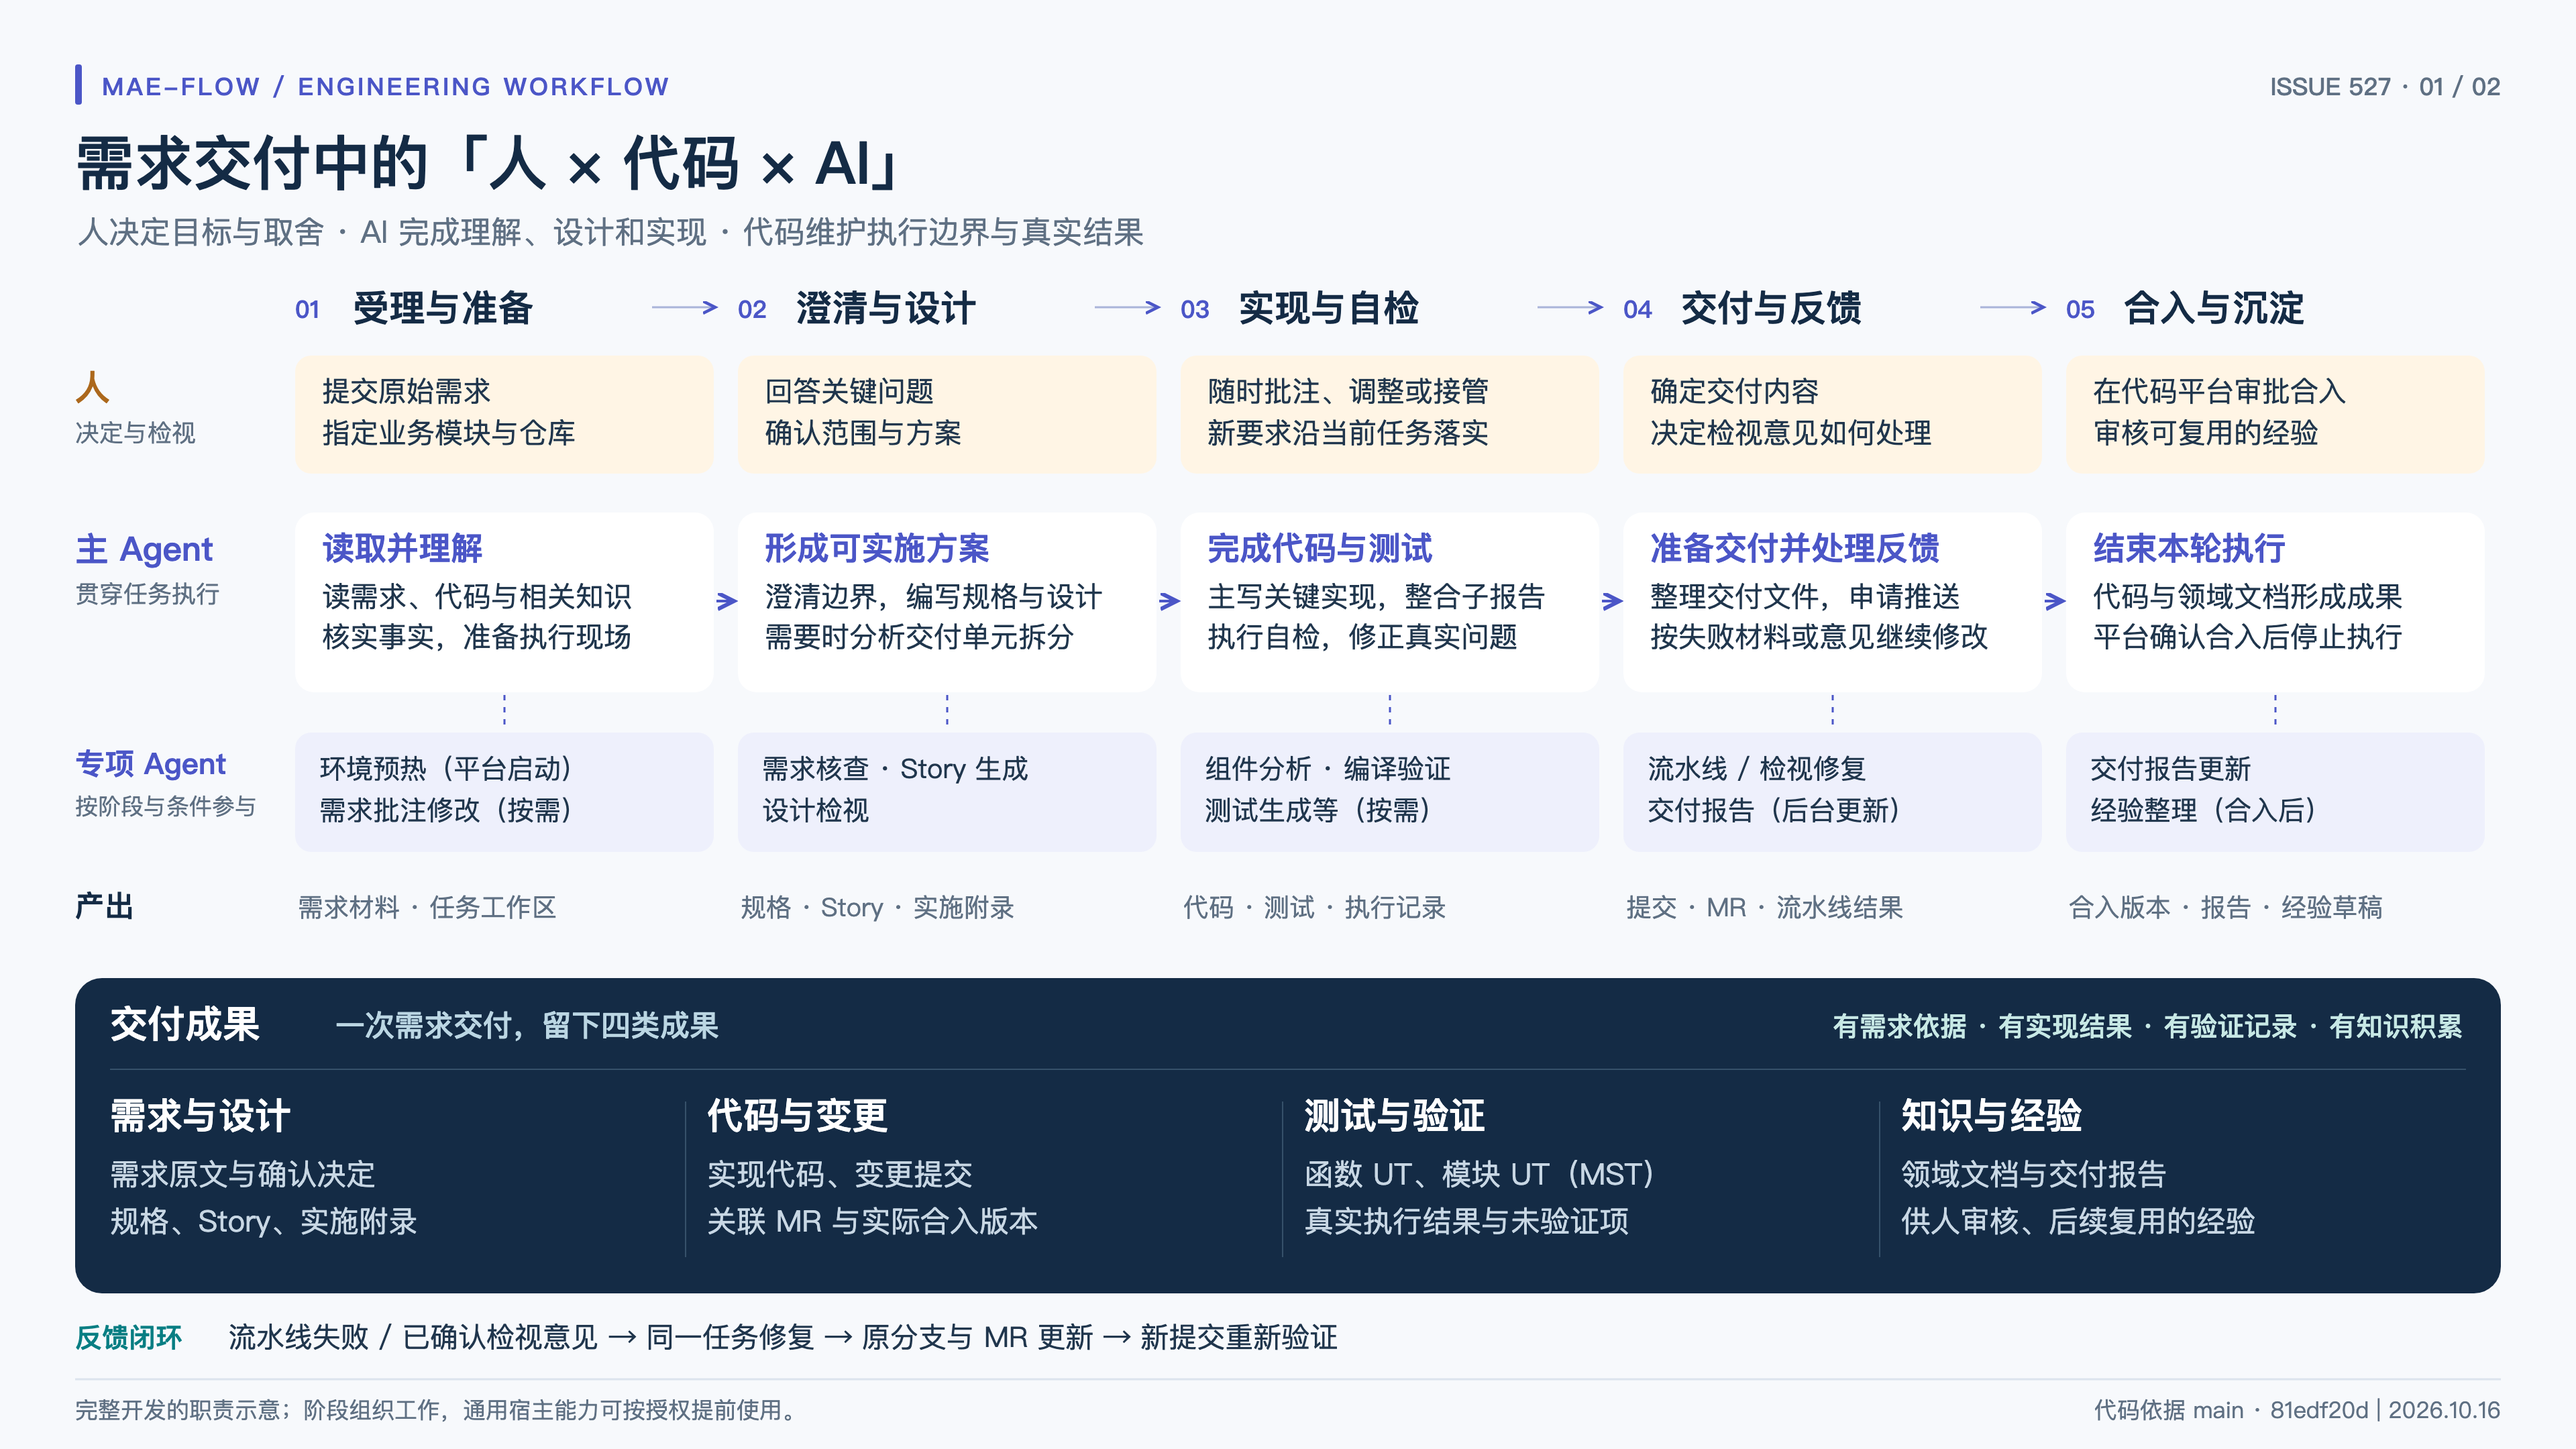
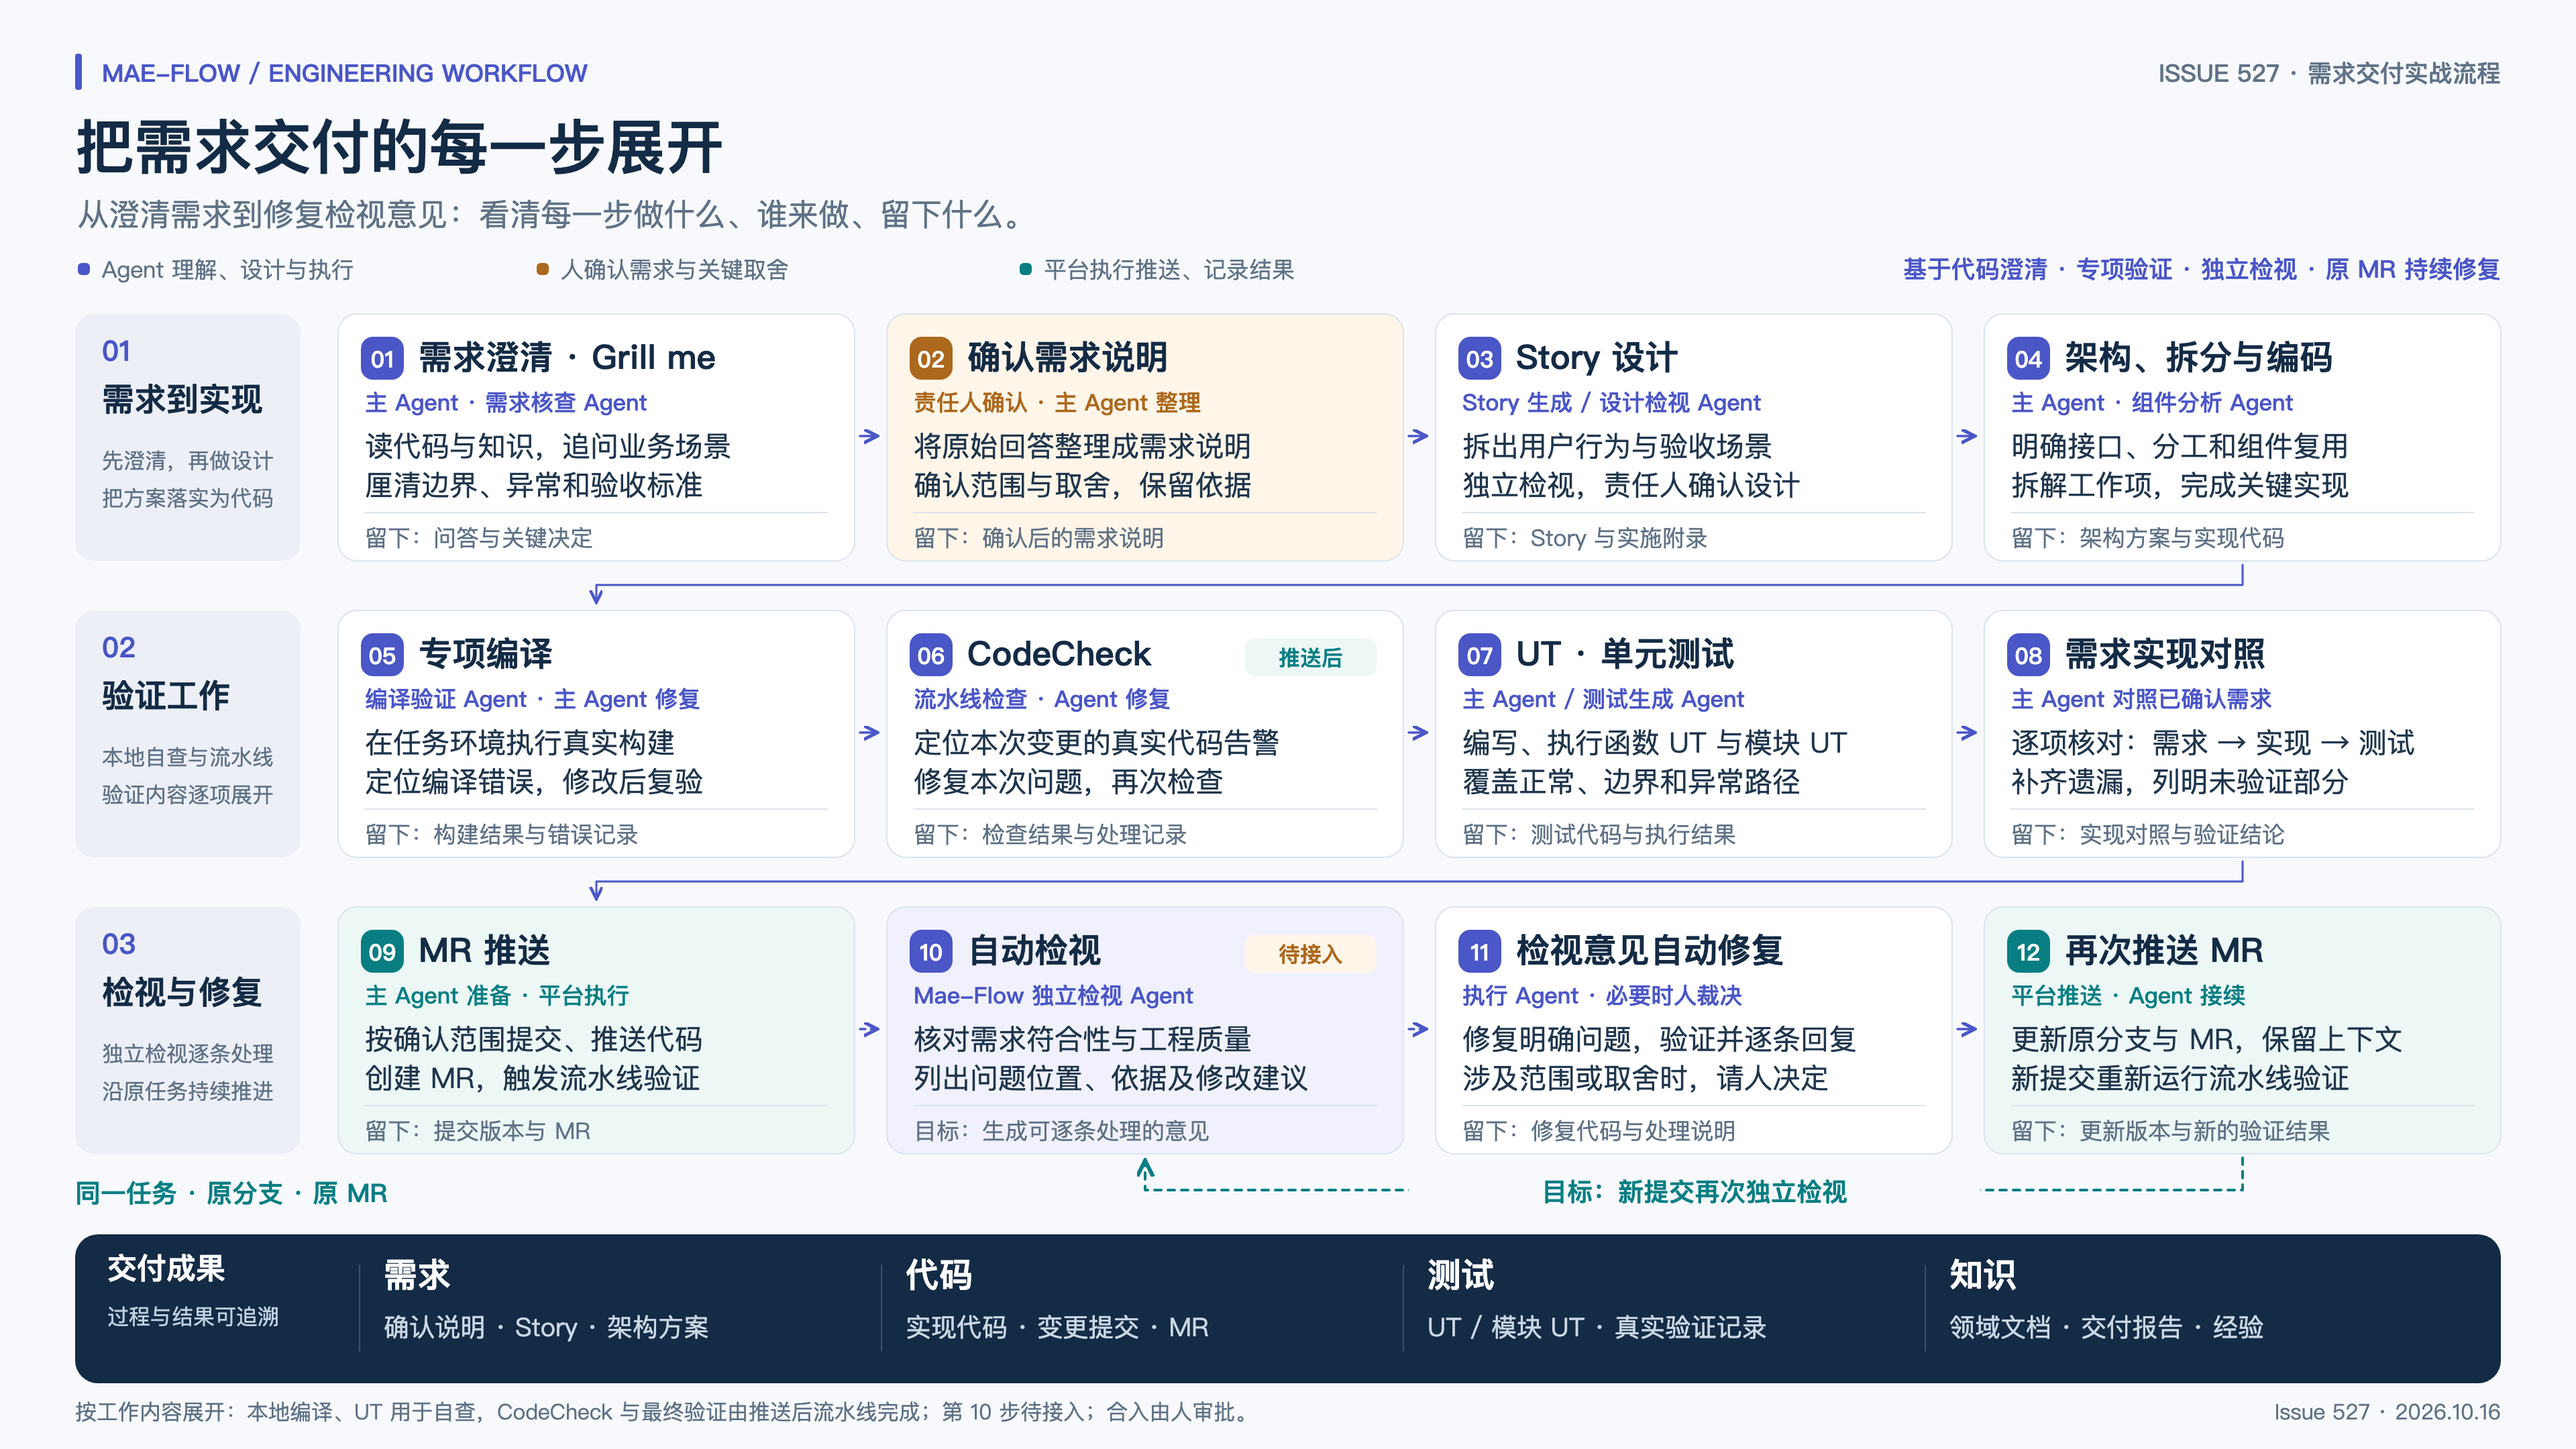
docs(issue-527): 展开开发动作与检视修复流程
按新增检视意见展开 12 项具体工作，保留四类成果。核对实际角色入口，将 MR 后独立代码检视标为待接入，区分本地自查与推送后流水线验证。材料已通过 1920×1080 浏览器目视检查及 108 处文字边界检查，PNG 为 4K；未运行代码测试或聚合检查。

diff --git a/docs/assets/issue-527/README.md b/docs/assets/issue-527/README.md
@@ -1,12 +1,22 @@
-# 需求交付协作图
+# 需求交付实战流程
 
-![需求交付中的人、代码与 AI](delivery-collaboration.png)
+![把需求交付的每一步展开](delivery-collaboration.png)
 
 - [高清 PNG](delivery-collaboration.png)：3840 × 2160，16:9，可直接插入演示文稿。
-- [可编辑 SVG](delivery-collaboration.svg)：1920 × 1080 矢量源文件，可调整文字与布局。
+- [可编辑 SVG](delivery-collaboration.svg)：1920 × 1080 矢量源文件。
 
-图示沿需求交付的五个阶段，说明人、主 Agent 与专项 Agent 的分工。底部汇总需求与设计、代码与变更、测试与验证、知识与经验四类交付成果。
+按 [Issue 527 的新增检视意见](https://github.com/yunine9/mae-flow-cloud/issues/527#issuecomment-6209227861)，将原来的五段概览展开为 12 项具体工作：需求澄清、确认需求说明、Story 设计、架构与任务拆分编码、专项编译、CodeCheck、UT、需求实现对照、MR 推送、独立 Agent 检视、意见修复、再次推送。每项说明执行角色、具体动作和产出；底部保留需求、代码、测试、知识四类成果。
 
-这是 [Issue 527](https://github.com/yunine9/mae-flow-cloud/issues/527) 确认后的主图版本，内容依据 `main` 的 `81edf20d`（2026-10-16）。图中的阶段为介绍用概括；具体角色与调用次数取决于任务条件。
+## 图示口径
 
-图中文字使用 PingFang SC / Microsoft YaHei 等系统字体。若编辑环境缺少相应字体，可替换为可用的中文字体；直接展示建议使用 PNG。
+这是工作内容的展开，不是每项任务必须经过的固定审批链。架构与任务边界在 Story 和实施附录中形成；图中将其与编码衔接展示。本地编译、UT 用于自查；CodeCheck 与最终验证由推送后的流水线完成，结果只对应实际验证过的版本。第 06 项按工作内容列在验证部分，并用“推送后”标明实际执行时间；专项编译子 Agent 只读返回结果，修复由主 Agent 完成。Story 及实施附录经独立检视和主 Agent 修正后，由责任人确认进入编码。用户确认的修改沿原任务、原分支与原 MR 接续，最终合入由人审批。
+
+**第 10 步“自动检视”标为待接入，相关箭头为虚线。** 用户明确希望这里表示 Mae-Flow 内部的独立代码检视 Agent。本次核对 `main` 的 `792552815bed2d6fe2721c3e65d808a34a615f0b`（2026-10-16）：仓库保留了需求符合性与工程质量两个代码检视视角的角色说明，但普通需求流程中已接通的是 Story 设计检视；尚未找到 MR 推送后自动调用该代码检视角色的入口。因此，图中该环节及“新提交再次独立检视”的循环表示目标流程，不作为现有自动能力的证明。本次仅优化材料，没有实现或部署此入口。
+
+## 代码依据
+
+- [需求澄清](https://github.com/yunine9/mae-flow-cloud/blob/792552815bed2d6fe2721c3e65d808a34a615f0b/kernel/flow/steps/grill.md)、[Story 生成与独立设计检视](https://github.com/yunine9/mae-flow-cloud/blob/792552815bed2d6fe2721c3e65d808a34a615f0b/kernel/flow/steps/story.md#L6)、[编码与针对性验证](https://github.com/yunine9/mae-flow-cloud/blob/792552815bed2d6fe2721c3e65d808a34a615f0b/kernel/flow/steps/build.md#L1)。
+- [检视角色说明](https://github.com/yunine9/mae-flow-cloud/blob/792552815bed2d6fe2721c3e65d808a34a615f0b/kernel/agents/craft-reviewer-agent.md#L24)与[当前可调用的角色入口](https://github.com/yunine9/mae-flow-cloud/blob/792552815bed2d6fe2721c3e65d808a34a615f0b/kernel/scripts/mae_flow_core/quality/role_tasks.py#L4)：区分角色说明与实际接线。
+- [推送后流水线验证](https://github.com/yunine9/mae-flow-cloud/blob/792552815bed2d6fe2721c3e65d808a34a615f0b/kernel/flow/steps/external_verify.md#L1)、[已授权检视意见修复与原 MR 更新](https://github.com/yunine9/mae-flow-cloud/blob/792552815bed2d6fe2721c3e65d808a34a615f0b/src/taskService.ts#L18668)、[真实合入状态](https://github.com/yunine9/mae-flow-cloud/blob/792552815bed2d6fe2721c3e65d808a34a615f0b/src/mergeWatch.ts#L129)。
+
+图中文字使用 PingFang SC / Microsoft YaHei 等系统字体。编辑环境缺少相应字体时可替换为可用中文字体；直接展示建议使用 PNG。
